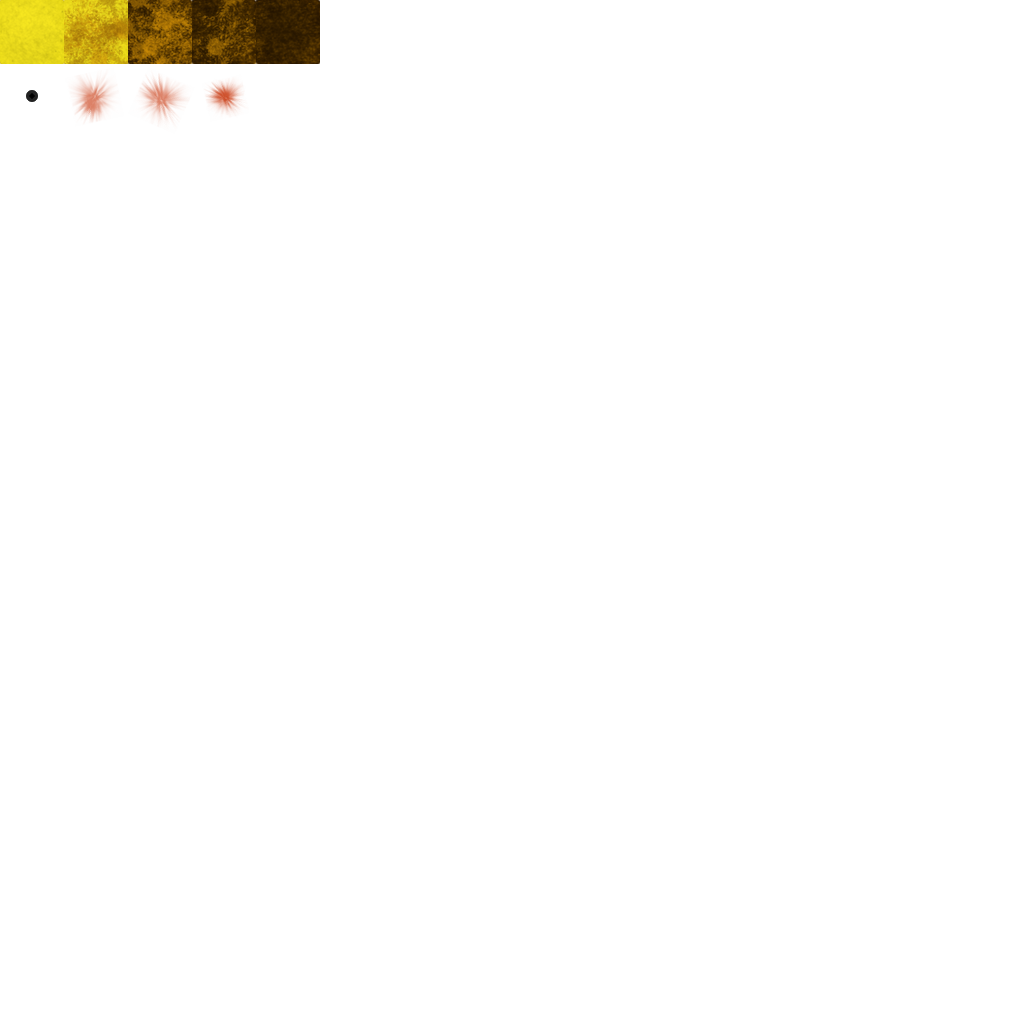
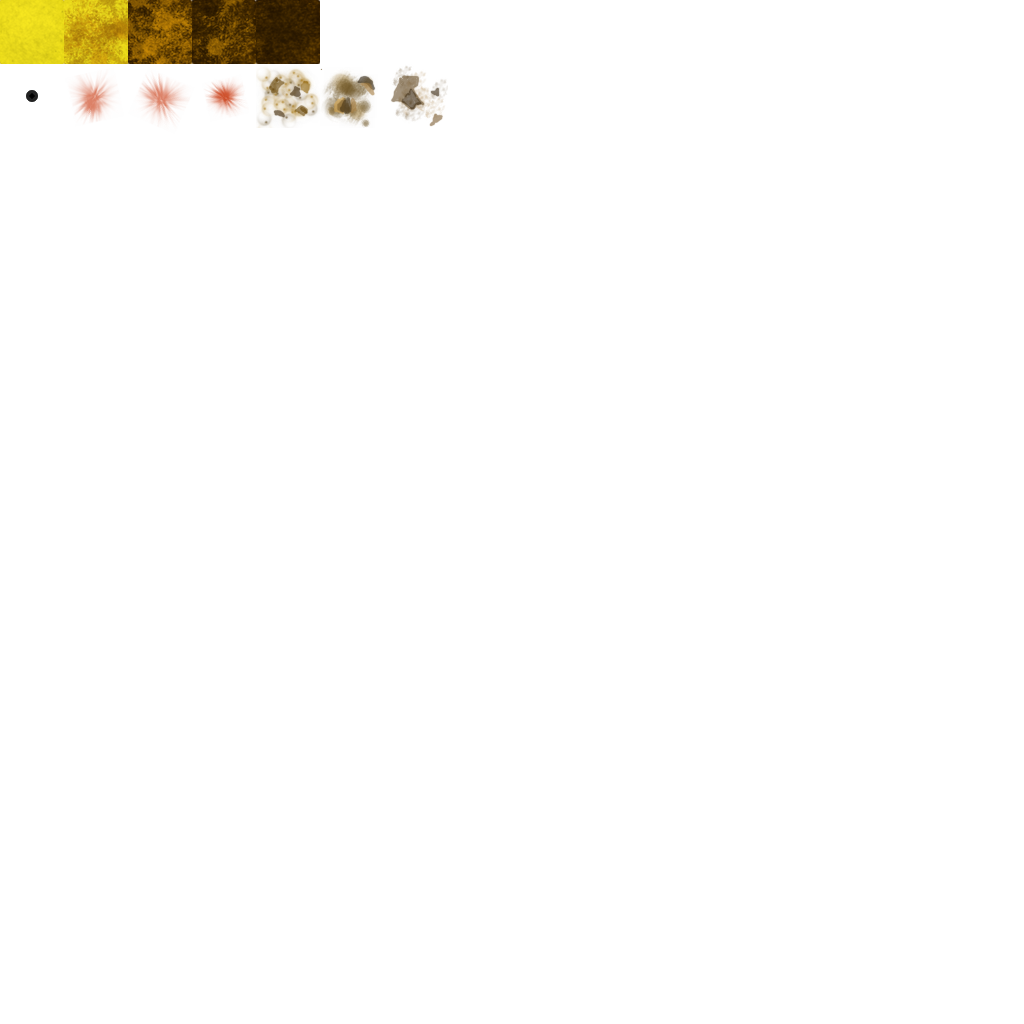
Add cell debris

Changed region(s): [[0.25, 0.0625, 0.4375, 0.125]]

diff --git a/ProjectPivot/Source/ProjectPivot/Textures.cs b/ProjectPivot/Source/ProjectPivot/Textures.cs
@@ -65,6 +65,16 @@ namespace ProjectPivot {
                                         "cell_100",
                                         256, 0, 64, 64, textureScale: 2));
 
+            AddRegion(new TextureRegion("tilesheet_pp",
+                                        "debris1",
+                                        256, 64, 64, 64, textureScale: 2));
+            AddRegion(new TextureRegion("tilesheet_pp",
+                                        "debris2",
+                                        320, 64, 64, 64, textureScale: 2));
+            AddRegion(new TextureRegion("tilesheet_pp",
+                                        "debris3",
+                                        384, 64, 64, 64, textureScale: 2));
+
 
             AddRegion(new TextureRegion("tilesheet_pa1", "player_down", 602, 226, 38, 38));
             AddRegion(new TextureRegion("tilesheet_pa1", "player_up", 640, 226, 38, 38));

diff --git a/ProjectPivot/Source/ProjectPivot/Components/CellDebris.cs b/ProjectPivot/Source/ProjectPivot/Components/CellDebris.cs
@@ -3,17 +3,17 @@ using Microsoft.Xna.Framework;
 using Microsoft.Xna.Framework.Graphics;
 
 namespace ProjectPivot.Components {
-    public class PawnBlood : Component {
+    public class CellDebris : Component {
         float rotation;
         SpriteEffects sfx;
         string textureName;
-        public float LayerDepth = 0.18f; // just above pawn
+        public float LayerDepth = 0.93f; // just above ground
         public static Random random = new Random();
 
-        public PawnBlood() {
+        public CellDebris() {
             rotation = MathHelper.ToRadians(random.Next(360));
             int texNum = random.Next(1, 4);
-            this.textureName = $"blood_splat{texNum}";
+            this.textureName = $"debris{texNum}";
 
             switch (random.Next(4)) {
                 case 0: { sfx = SpriteEffects.None; break; }

diff --git a/ProjectPivot/Source/ProjectPivot/Entities/Cell.cs b/ProjectPivot/Source/ProjectPivot/Entities/Cell.cs
@@ -108,7 +108,11 @@ namespace ProjectPivot.Entities {
         } 
 
         public bool TakeDamage(int damage, GameObject source) {
+            bool wasHealthy = health.IsHealthy;
             health.Decrease(damage / 2);
+            if (wasHealthy && !health.IsHealthy) {
+                AddComponent(new CellDebris());
+            }
             return true;
         }
     }
